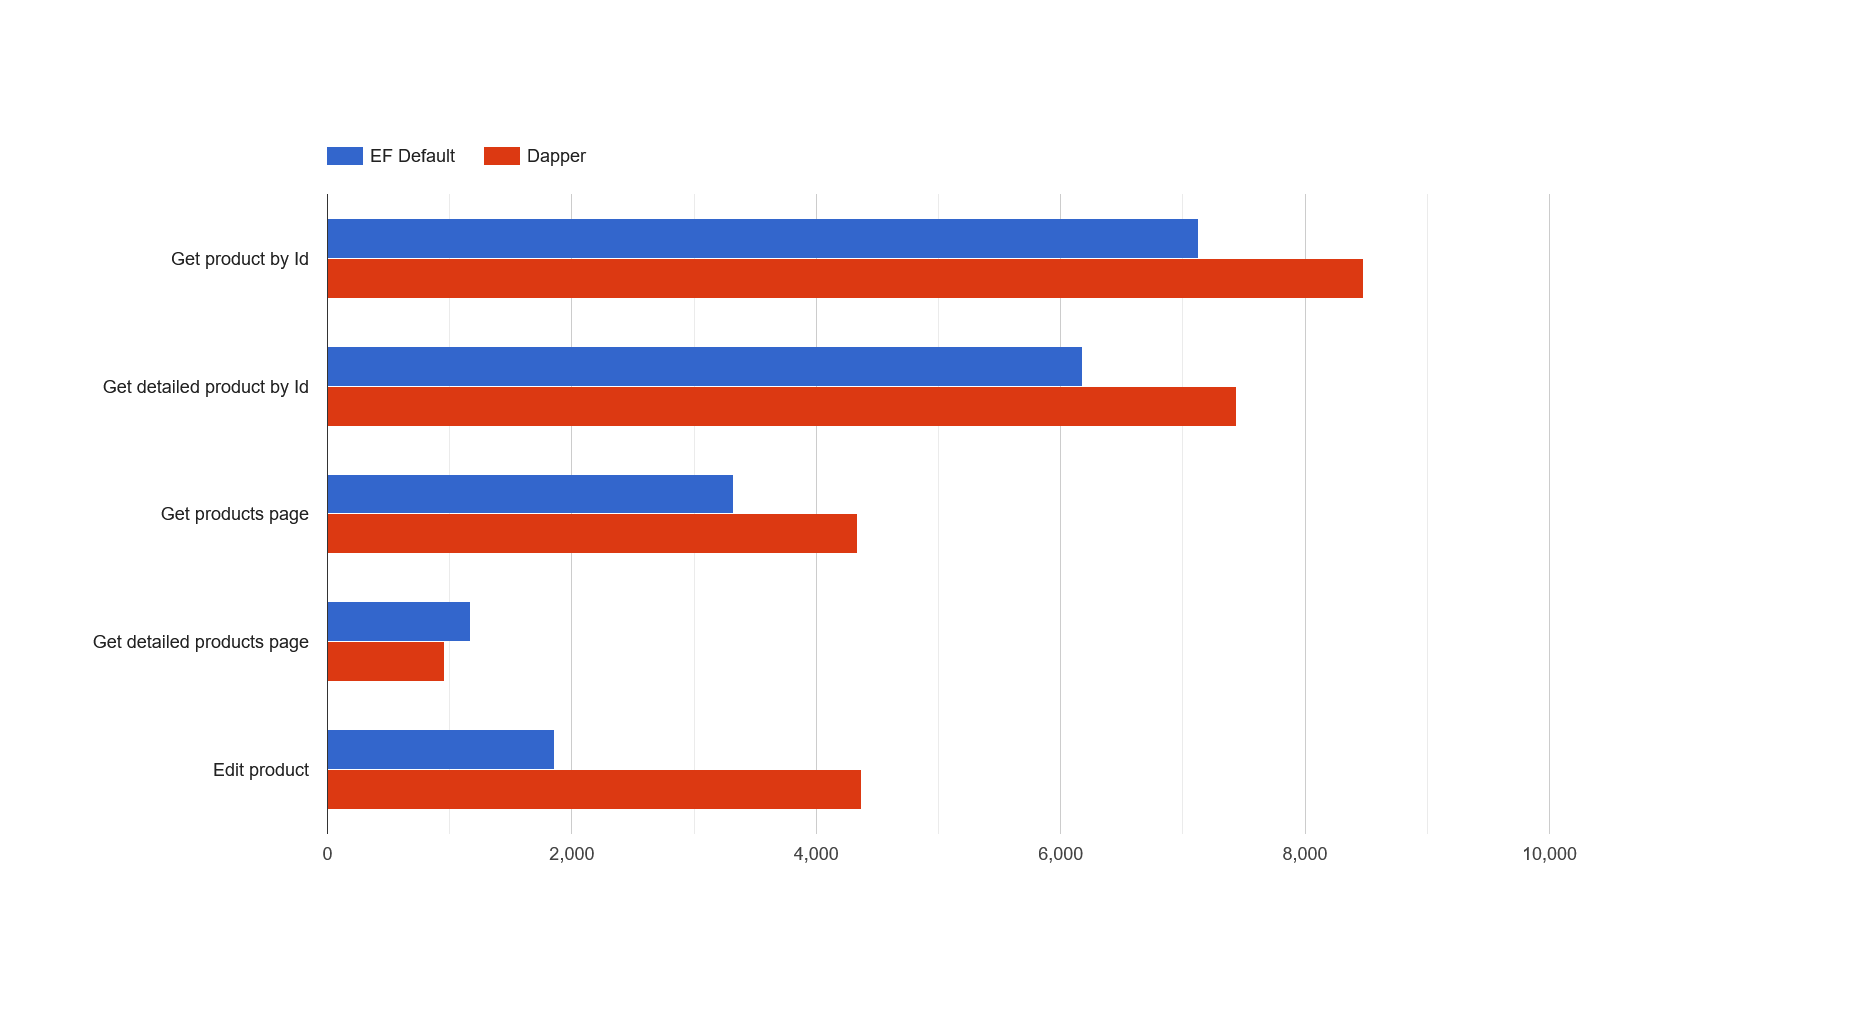
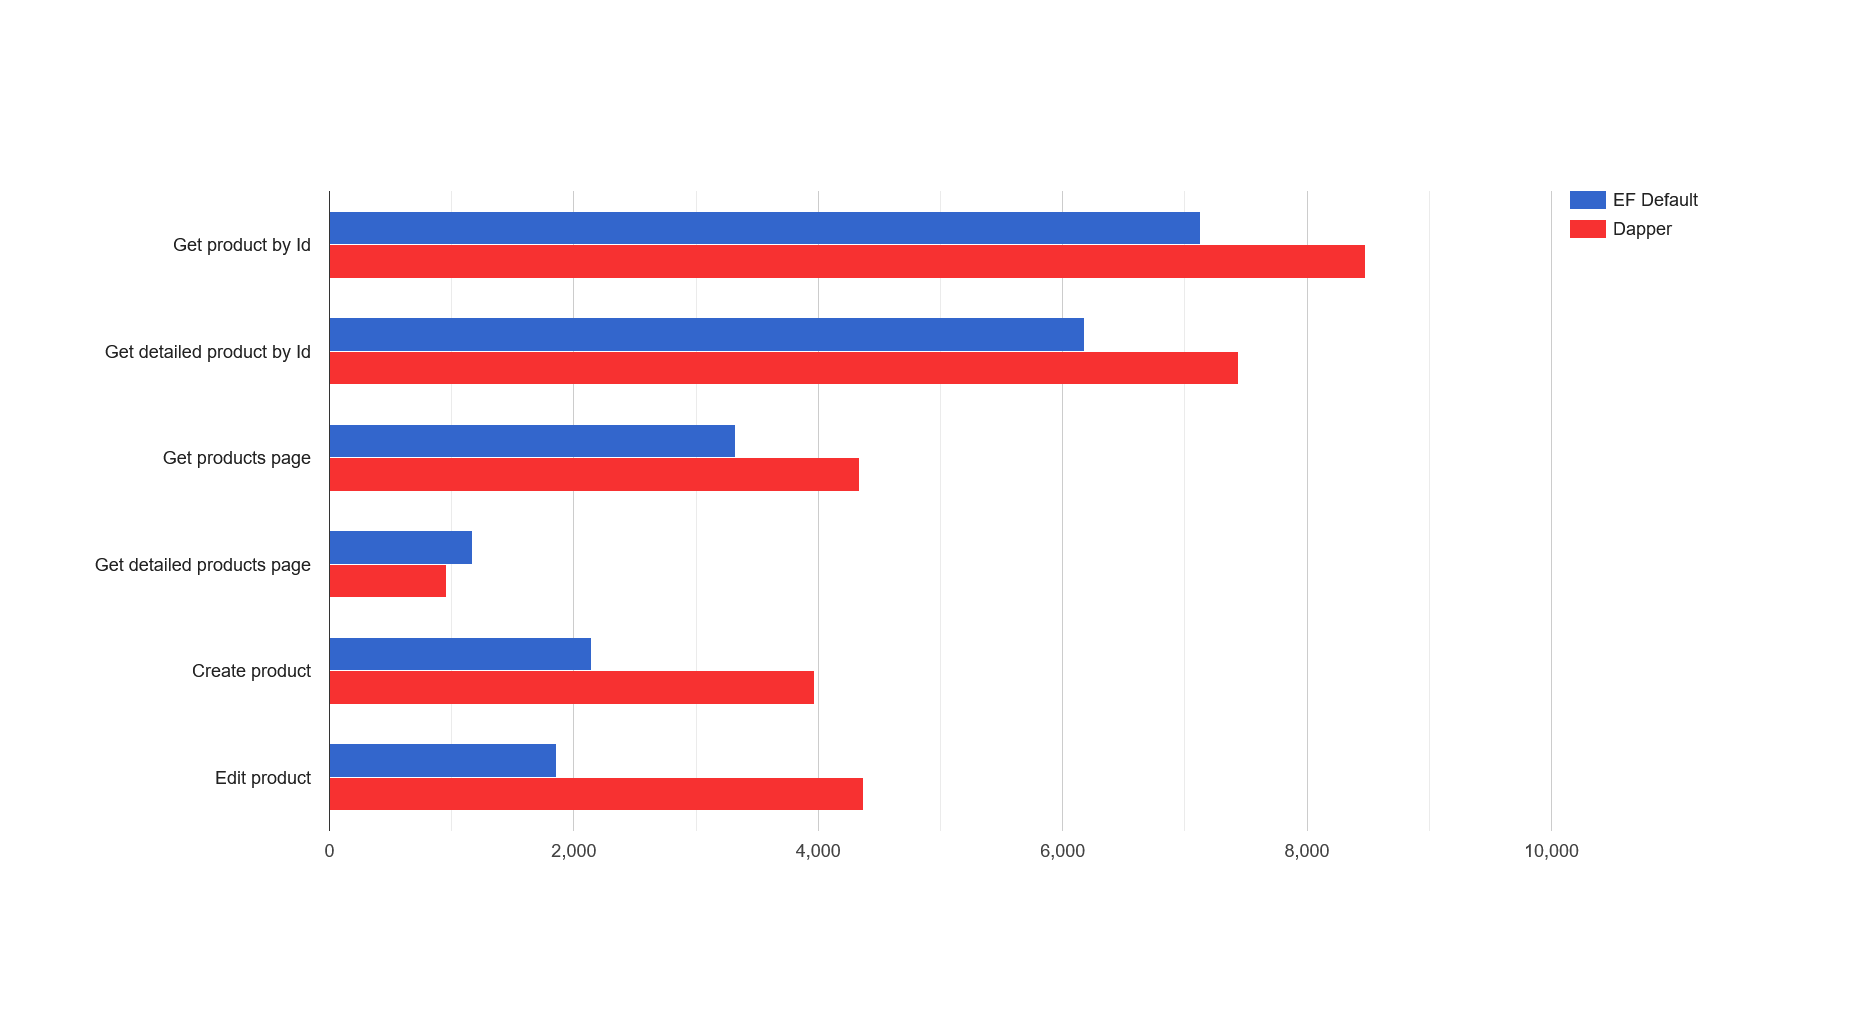
update article according to missing POST test

diff --git a/articles/2022-entityframeworkcore-and-high-performance/entityframeworkcore-and-high-performance.ru.md b/articles/2022-entityframeworkcore-and-high-performance/entityframeworkcore-and-high-performance.ru.md
@@ -75,6 +75,7 @@ public void ApplicationLogic()
 - GET запрос по Id с данными из нескольких связанных таблиц (JOIN-s). *Get product with model and product category by id*
 - GET запрос страницы с данными из одной таблицы. *Get products page*
 - GET запрос страницы с данными из нескольких связанных таблиц (JOIN-s). *Get products page with model and product category datas*
+- POST запрос на создание. *Create product*
 - PUT запрос на редактирование. *Edit product name*
 
 Нам понадобится реализовать API несколько раз, используя разные имплементации `IProductsRepository` на базе EF или Dapper для доступа к данным. Для полноценного нагрузочного тестирования мы будем использовать NBomber поочередно для всех перечисленных сценариев. Подробнее о NBomber и работе с ним можно ознакомится в [этой статье](https://habr.com/ru/post/664824/). Для более быстрых локальных тестов в некоторых случаях мы будем использовать [BenchmarkDotNet сценарии](https://github.com/MrPomidor/EFCorePerformanceTipsDemo/tree/master/src/Solution/Tests/Benchmarks), которые будут повторять наше API в миниатюре, вызывая разные реализации интерфейса `IProductsRepository` для EF, Dapper и вариаций EF с различными улучшениями:
@@ -116,9 +117,10 @@ public async Task GetProduct_Benchmark()
 |Get detailed product by Id|6180,5|7439,9|
 |Get products page|3320,7|4341,2|
 |Get detailed products page|1174,8|954,8|
+|Create product|2146,2|3967,9|
 |Edit product|1859,8|4371,7|
 
-Как видим в данной конфигурации EF на **19-30** процентов уступает Dapper в большинстве сценариев для чтения, и значительно уступает в сценарии редактирования. Теперь мы имеем точку отсчета и можем приступить к работе над улучшениями.
+Как видим в данной конфигурации EF на **19-30** процентов уступает Dapper в большинстве сценариев для чтения, и значительно уступает в сценариях создания и редактирования. Теперь мы имеем точку отсчета и можем приступить к работе над улучшениями.
 
 ## DbContext pooling
 Для повышения производительности при работе с EF нам необходимо постепенно уменьшать влияние промежуточных этапов которые мы описали ранее, уменьшая количество аллокации, повторных вычислений и по возможности делая часть вычислений наперед (pre-calculation). Microsoft [предлагает](https://docs.microsoft.com/en-us/ef/core/performance/advanced-performance-topics#dbcontext-pooling) использовать пул для объектов типа `DbContext`. Плюсы этого решения очевидны - переиспользование "тяжелых" объектов уменьшат давление на GC что будет заметно при интенсивной нагрузке. Также среди плюсов стоит отметить легкость в конфигурации - для настройки пулинга вам необходимо поменять лишь одну строку в конфигурации приложения, заменив вызов `AddDbContext` на `AddDbContextPool` в Program.cs. Ваш код доступа к данным (в нашем случае реализация `IProductsRepository`) останется нетронутым. Однако стоит учитывать что ваш `DbContext` по сути становится синглтоном и не должен сохранять никакого состояния между использованиями. Тем не менее если у вас возникает необходимость работать с данными scoped контекста, способ это сделать был [предусмотрен и описан](https://docs.microsoft.com/en-us/ef/core/performance/advanced-performance-topics#managing-state-in-pooled-contexts) разработчиками EF. Также важно предусмотреть достаточно большой размер пула, так как при превышении его размера будут создаваться новые экземпляры `DbContext`.
@@ -247,6 +249,7 @@ public static void AddEfCore(this IServiceCollection services, IConfiguration co
 
 |Scenario name|EF Default (ms)|EF Disable concurrency check (ms)|EF Context Pooling (ms)|EF Context Pooling and Disable concurrency check (ms)|
 |---|---|---|---|---|
+|Create|2,015.9|2,031.8|1,867.9|1,876.7|
 |Edit|2,404.7|2,400.6|2,245.6|2,258.2|
 |Get by Id|1,067.5|1,055.8|859.2|886.6|
 |Get by Id full|1,186.6|1,246.2|984.8|973.0|
@@ -270,11 +273,12 @@ public static void AddEfCore(this IServiceCollection services, IConfiguration co
 |Get detailed product by Id|6180,5|7297,5|7439,9|
 |Get products page|3320,7|4165,5|4341,2|
 |Get detailed products page|1174,8|1306,2|954,8|
+|Create product|2146,2|2279,1|3967,9|
 |Edit product|1859,8|2472,0|4371,7|
 
-Согласно результатам тестирования всех трех версий приложения, мы видим что улучшения для EF позволили на **7-25** процентов улучшить результаты по сравнению с версией EF "из коробки". Также значительно сократился разрыв с Dapper и теперь Dapper превосходит EF в среднем на **1.5-4.2** процента в большинстве сценариев на чтение.
+Согласно результатам тестирования всех трех версий приложения, мы видим что улучшения для EF позволили на **6-25** процентов улучшить результаты по сравнению с версией EF "из коробки". Также значительно сократился разрыв с Dapper и теперь Dapper превосходит EF в среднем на **1.5-4.2** процента в большинстве сценариев на чтение.
 
-К сожалению, мы также увидели что получить схожую с Dapper производительность для сценариев с редактированием, при этом сохраняя изоляцию C# программиста от SQL кода, увы не выйдет. Dapper все еще превосходит EF на **76** процентов в этом сценарии. Однако стоит отметить что EF конечно же дает программисту возможность вручную писать SQL код с помощью `DbContext.Database.ExecuteSqlRaw`. Таким образом вы сможете оптимизировать узкое место, не подключая при этом сторонних библиотек кроме EF. Результаты бенчмарка показывают что производительность EF `ExecuteSqlRaw` почти идентична коду, написанному на Dapper:
+К сожалению, мы также увидели что получить схожую с Dapper производительность для сценариев с редактированием и созданием, при этом сохраняя изоляцию C# программиста от SQL кода, увы не выйдет. Dapper все еще превосходит EF на **76** процентов в редактировании и на **74** процента в создании. Однако стоит отметить что EF конечно же дает программисту возможность вручную писать SQL код с помощью `DbContext.Database.ExecuteSqlRaw`. Таким образом вы сможете оптимизировать узкое место, не подключая при этом сторонних библиотек кроме EF. Результаты бенчмарка показывают что производительность EF `ExecuteSqlRaw` почти идентична коду, написанному на Dapper для обоих сценариев:
 
 ```csharp
 public async Task EditProductName(int productId, string productName)
@@ -291,11 +295,38 @@ public async Task EditProductName(int productId, string productName)
 |---|---|---|
 |Edit_Default|2,404.7|70|
 |Edit_CombinedImprovements|1,780.5|21|
-|Edit_ContextPoolingRawSqlUpdate|920.5|4|
+|Edit_ContextPoolingRawSql|940.6|4|
 |Edit_Dapper|916.6|3|
 
+```csharp
+public async Task<int> CreateProduct(Product product)
+{
+    var productId = await _context.Database.ExecuteSqlRawAsync(@"INSERT INTO [Production].[Product]
+        (Name, ProductNumber, SafetyStockLevel, ReorderPoint, StandardCost, ListPrice, Class, Style, Color, SellStartDate, DaysToManufacture)
+    VALUES
+        ({0}, {1}, {2}, {3}, {4}, {5}, {6}, {7}, {8}, {9}, {10})
+    SELECT CAST(SCOPE_IDENTITY() as int)",
+    product.Name, product.ProductNumber, product.SafetyStockLevel, product.ReorderPoint, product.StandardCost, product.ListPrice, 
+    product.Class, product.Style, product.Color, product.SellStartDate, product.DaysToManufacture);
+
+    return productId;
+}
+```
+
+|Benchmark name|Mean (ms)|Allocated (MB)|
+|---|---|---|
+|Create_Default|2,015.9|77|
+|Create_ContextPoolingRawSql|947.9|9|
+|Create_Dapper|941.3|7|
+
+Стоит также добавить что в [дорожной карте](https://docs.microsoft.com/en-us/ef/core/what-is-new/ef-core-7.0/plan#performance-of-database-inserts-and-updates) для следующей версии EF планируется провести оптимизацию change-tracking механизма и улучшить производительность сценариев Insert и Update:
+
+> For EF7, we plan to focus on performance related to database inserts and updates. This includes performance of change-tracking queries, performance of `DetectChanges`, and performance of the insert and update commands sent to the database.
+
+Мы можем следить за ходом разработки на [Github](https://github.com/dotnet/efcore/issues/26797) и надеятся что со следующим релизом разрыв с Dapper в этих сценариях будет существенно сокращен.
+
 ## Итоги
-Как мы смогли увидеть, EF Core на момент июля 2022 года при правильном использовании может показывать результаты сопоставимые с Dapper для большинства сценариев, при этом сохраняя свои преимущества в виде генерирования корректного и безопасного SQL кода, используя строго типизированные LINQ выражения и манипуляции C# объектами в памяти для редактирования. На мой взгляд, и как показывает практика, EF Core последней версии вполне применим для использования в высоконагруженных системах. Учитывая богатый функционал, поддержку и популярность, а также то что EF Core и платформа NET не стоят на месте и с каждым релизом становятся лучше в плане производительности, вы не ошибетесь выбрав для разработки EF Core. Надеюсь что статья была вам полезна.
+Как мы смогли увидеть, EF Core на момент июля 2022 года при правильном использовании может показывать результаты сопоставимые с Dapper для большинства сценариев для чтения, при этом сохраняя свои преимущества в виде генерирования корректного и безопасного SQL кода, используя строго типизированные LINQ выражения. Пока что EF все еще значительно уступает Dapper в Insert и Update сценариях при использовании C# обьектов для редактирования, но у разработчиков есть возможность при необходимости повысить производительность при помощи raw sql подхода. Мы можем ожидать уменьшение разрыва между EF и Dapper в этих сценариях уже в следующем релизе. На мой взгляд, и как показывает практика, EF Core последней версии вполне применим для использования в высоконагруженных системах. Учитывая богатый функционал, поддержку и популярность, а также то что EF Core и платформа NET не стоят на месте и с каждым релизом становятся лучше в плане производительности, вы не ошибетесь выбрав для разработки EF Core. Надеюсь что статья была вам полезна.
 
 Спасибо за внимание !
 
